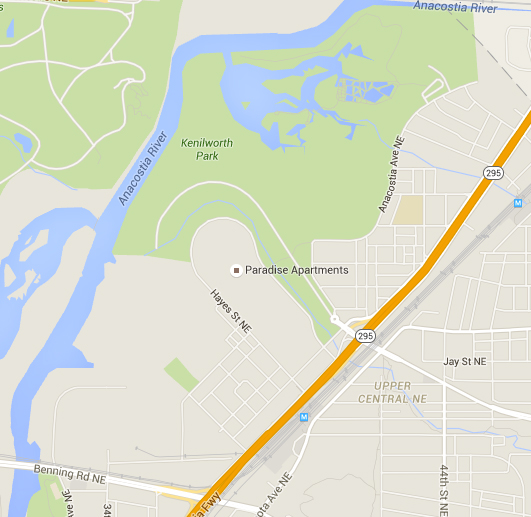
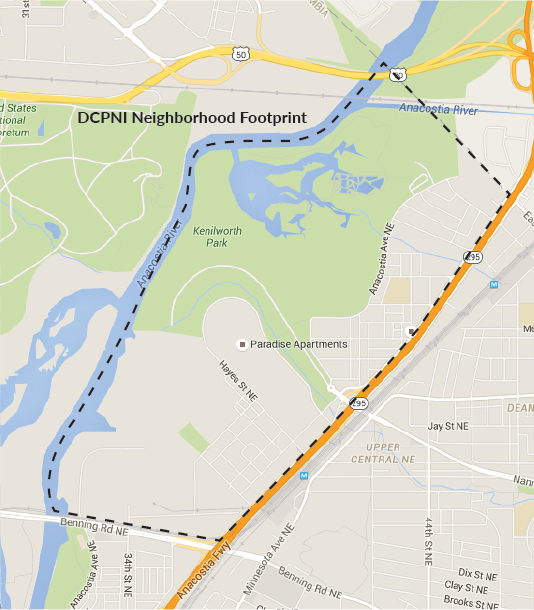
added the labeled placeholder map to DC page

diff --git a/page3.html b/page3.html
@@ -75,7 +75,7 @@
 
     <h2>Mission Promise Neighborhood is a bit of a misnomer</h2>
         
-      <h6>Subhead can go here if it's needed</h6> 
+      <h3>Subhead can go here if it's needed</h3> 
         <p>  <span class="credits bold">Photography by </span><span class="credits">LYDIA THOMPSON</span><br>
         <span class="credits bold">Writing by </span><span class="credits">Alex Tilsley</span></p>
         
@@ -102,16 +102,15 @@
 
 <p>“That’s one of the things I’ve always thought was really challenging,” said Jaime Aragon, service coordination manager for the Good Samaritan Family Resource Center.  “How do you define the Mission?” </p>
           
+ <figure class="overhalf left figureHalfLeftSpacing">
 
+            <img src="img/DC/map2.jpg" class="full">
+           </figure> 
 <p>The Mission, which covers almost 2 square miles in southeastern San Francisco, has historically been a cultural hub for Central American immigrants. It used to be a place where residents would walk down the street and greet each other with “buenos dias.” But things are changing. In fact, in the time between when the Mission Economic Development Agency (MEDA) submitted its application to form the Mission Promise Neighborhood (MPN) and when the Promise Neighborhood grant began, whites overtook Latinos as the majority in the Mission. 
 </p>
-        <figure class="half left figureHalfLeftSpacing">
-
-            <iframe src="https://www.google.com/maps/d/u/0/embed?mid=1Y1weau6Ffnh0ywbfSVR7WelFfXA" width="100%" height="400"></iframe>
-           </figure> 
-      
-        <h6>Demographics</h6>
-              <hr><p></p>
+           
+        
+       
      </div>
        
 <figure>

diff --git a/page2.html b/page2.html
@@ -100,9 +100,9 @@
         
 
          
-         <figure class="half left figureHalfLeftSpacing">
+         <figure class="overhalf left figureHalfLeftSpacing">
 
-            <img src="img/DC/map.jpg" class="full">
+            <img src="img/DC/map2.jpg" class="full">
            </figure> 
        
         

diff --git a/css/style.css b/css/style.css
@@ -636,6 +636,12 @@ margin-bottom:15px;
     margin-bottom: 10px;
 }
 
+/*image that goes 65% width of wrapper. */
+.overhalf{
+    width:65%;
+    margin-top:3px;
+    margin-bottom: 10px;
+}
 .left{
     float:left;
 }
